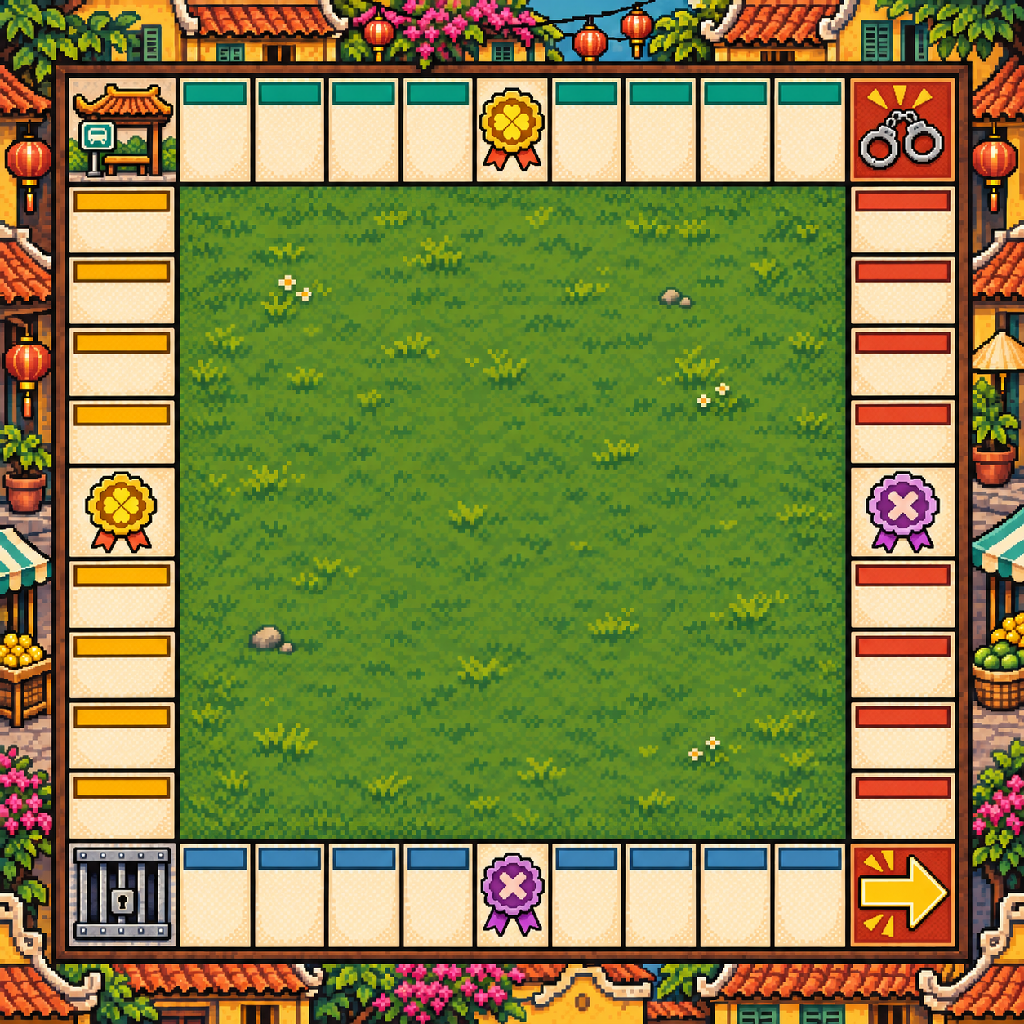
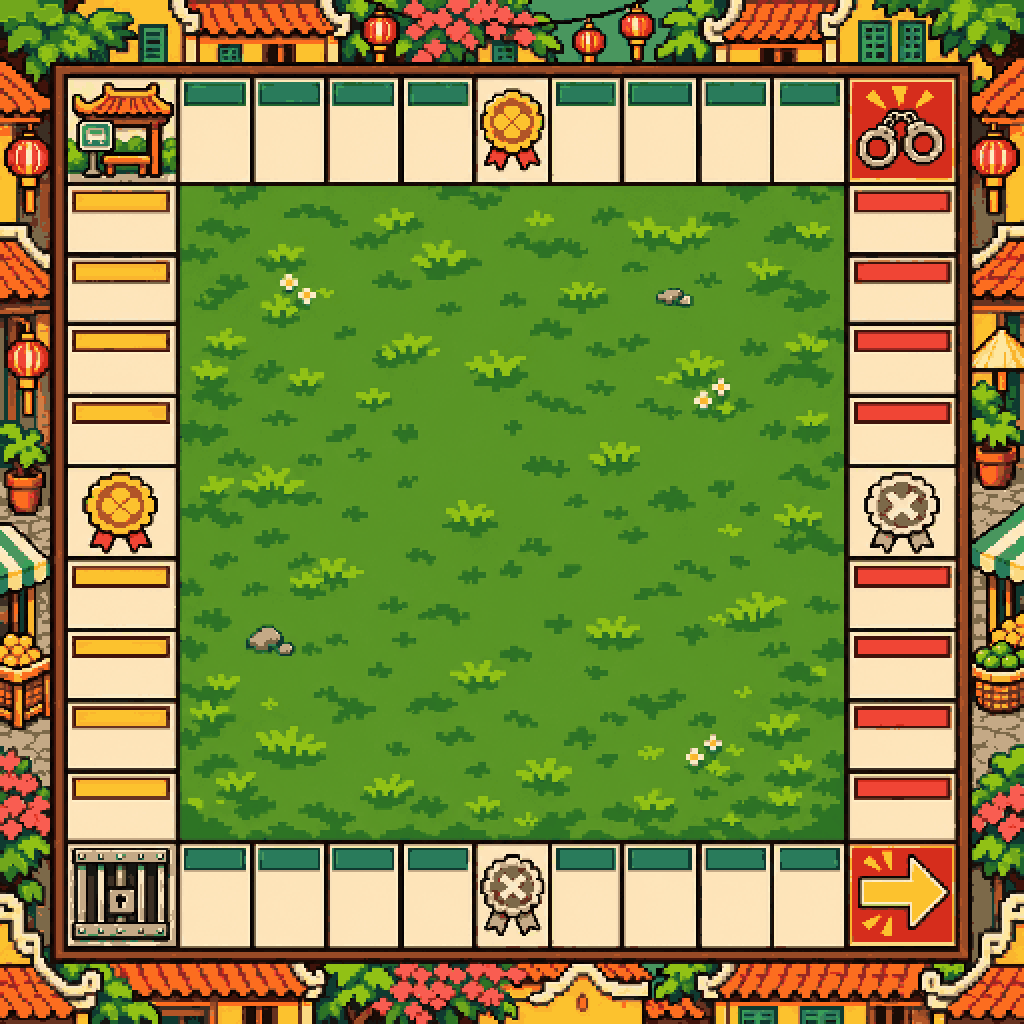
Redraw Cờ Tỷ Phú artwork on the 2x grid

diff --git a/docs/co-ty-phu/check_optimize.py b/docs/co-ty-phu/check_optimize.py
@@ -1,0 +1,39 @@
+"""Verify BRD-06 WebP files. Requires Pillow."""
+import hashlib
+import json
+from pathlib import Path
+from PIL import Image
+
+assets = Path(__file__).resolve().parents[2] / "prototype/games/co-ty-phu/assets"
+manifest = json.loads((assets / "asset-manifest.json").read_text(encoding="utf-8"))
+entries = {entry["file"]: entry for entry in manifest["files"]}
+
+for name, size, limit in (
+    ("board-co-ty-phu.webp", (1024, 1024), 200_000),
+    ("poster-co-ty-phu.webp", (960, 640), 120_000),
+):
+    path = assets / name
+    data = path.read_bytes()
+    with Image.open(path) as webp:
+        assert webp.size == size and webp.mode == "RGB", name
+        assert data[12:16] == b"VP8L", f"{name}: expected lossless WebP"
+        width, height = size
+        pixels = webp.load()
+        matched = sum(
+            pixels[x, y] == pixels[x+1, y] == pixels[x, y+1] == pixels[x+1, y+1]
+            for y in range(0, height, 2) for x in range(0, width, 2)
+        )
+        grid = 100 * matched / ((width // 2) * (height // 2))
+        colors = len(webp.getcolors(maxcolors=width * height))
+    assert grid >= 99 and colors <= 96 and len(data) <= limit, name
+    assert entries[name]["bytes"] == len(data), name
+    assert entries[name]["sha256"] == hashlib.sha256(data).hexdigest(), name
+    print(f"{name}: {width}x{height} | {len(data):,} bytes | {colors} colors | {grid:.2f}% 2x grid")
+
+tiles = manifest["board"]["tiles"]
+assert len(tiles) == 40
+assert {(tile["row"], tile["column"]) for tile in tiles} == {
+    (row, col) for row in range(11) for col in range(11)
+    if row in (0, 10) or col in (0, 10)
+}
+print("40 board tiles with unique perimeter positions")
